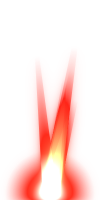
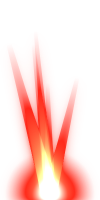
데몰리셔니스트 이펙트 3차: 알파 상향, 히트박스-그림 크기 매칭, 변신 스킬1 연쇄폭발 재설계, 잔존 연기/파편
1. 알파가 낮아 흐릿하던 문제 — 번쩍임 코어/충격파 링/암석 파편/연기/불기둥의 베이킹 알파와
   draw 시 alpha를 전반적으로 올려 핵심 레이어가 또렷하게 보이도록 조정.
2. 판정 반지름에 그림 크기를 맞춤 — tools/demolitionist_gen.js가 굽는 실제 치수를 기준으로
   DMX_FLASH_SCALE(2.5)/DMX_ROCKS_SCALE(3.3)/DMX_CRATER_SCALE(4.9)/DMX_SMOKE_SCALE(2.6)/
   DMX_PILLAR_SCALE(0.9) 배율을 계산해 모든 폭발(평타 60/90, 스킬2 80/100, 궁극기 180)에 공통 적용.
3. 변신 스킬1을 균열형 쐐기 대신, 사다리꼴 범위 안에서 뒤→앞으로 순서대로 터지는 "연쇄 폭발"로
   재설계 (dmx_blast_red + dmx_rocks + dmx_smoke2를 재사용). dmx_shock_red.png는 더 이상 쓰지
   않아 제거.
4. 폭발의 연기·암석 파편이 메인 번쩍임(300~400ms)보다 훨씬 오래(1.2~1.4초) 남아 서서히
   사라지도록 DmxCraterVFX/DmxSmokeVFX/DmxRocksVFX 수명을 늘림 (Vfx.spawn 쪽에서만 처리,
   시뮬레이션 판정 수명은 그대로).

판정/데미지/타이밍 등 시뮬레이션 로직 변경 없음 (순수 비주얼 교체).
tools/tests/sync_test.js 4-0 4-1 4-2 4-3 전부 '같음', ERRS [] 확인.

Claude-Session: https://claude.ai/code/session_014Trbsuv1XdHBwRMNJRF5cV

Changed region(s): [[0.09, 0.21, 0.78, 1.0], [0.75, 0.45, 0.78, 0.48]]

diff --git a/tools/demolitionist_gen.js b/tools/demolitionist_gen.js
@@ -8,8 +8,8 @@
 //   dmx_smoke2.png     280x350  위로 치솟는 검은 연기 뭉치 (바닥 기준점: 그림 가운데 아래쪽, x=140,y=325) — 보통
 //   dmx_crater.png     280x280  바닥 크레이터/균열 (가운데=그림 가운데) — 보통
 //   dmx_shock.png      280x150  평소 충격파 글로우 (흰 빛, 뒤쪽 기준점 x=20,y=75) — 색 입혀 'lighter'
-//   dmx_shock_red.png  280x150  변신 스킬1 균열형 충격파 (멀티컬러 빨강, 뒤쪽 기준점 x=20,y=75) — 'lighter'
 //   dmx_pillar.png     100x200  변신 스킬2 착탄 불기둥 (바닥 기준점: 그림 가운데 아래쪽, x=50,y=195) — 'lighter'
+//   변신 스킬1은 전용 그림 없이 dmx_blast_red/dmx_rocks/dmx_smoke2를 연쇄 폭발처럼 겹쳐 그린다 (demolitionist.js)
 //   dmx_dust.png       150x150  먼지바람 (옅은 회갈색, 가운데=그림 가운데, 밀림/후딜 궤적용) — 보통
 //   preview_dmx.png (확인용)
 // 실행: node tools/demolitionist_gen.js <저장할 폴더>  (Playwright 필요)
@@ -60,29 +60,30 @@ const OUT = process.argv[2] || __dirname;
       const cv = mk(560, 560), fx = cv.getContext('2d'); const CX = 280;
       fx.globalCompositeOperation = 'lighter';
       const gCore = fx.createRadialGradient(CX, CX, 0, CX, CX, 150);
-      gCore.addColorStop(0, `rgba(${WHITE},1)`); gCore.addColorStop(0.25, `rgba(${WHITE},0.9)`); gCore.addColorStop(0.55, `rgba(${A},0.55)`); gCore.addColorStop(1, `rgba(${B},0)`);
+      gCore.addColorStop(0, `rgba(${WHITE},1)`); gCore.addColorStop(0.25, `rgba(${WHITE},0.95)`); gCore.addColorStop(0.55, `rgba(${A},0.75)`); gCore.addColorStop(1, `rgba(${B},0)`);
       fx.fillStyle = gCore; fx.beginPath(); fx.arc(CX, CX, 150, 0, Math.PI * 2); fx.fill();
       for (let i = 0; i < 18; i++) {
         const a = R(0, Math.PI * 2), len = R(70, 160), w = R(10, 22);
         fx.save(); fx.translate(CX, CX); fx.rotate(a);
         const g = fx.createLinearGradient(0, 0, len, 0);
         const col = PICK([WHITE, A, B]);
-        g.addColorStop(0, `rgba(${col},0.9)`); g.addColorStop(1, `rgba(${C},0)`);
+        g.addColorStop(0, `rgba(${col},1)`); g.addColorStop(1, `rgba(${C},0)`);
         fx.fillStyle = g;
         fx.beginPath(); fx.moveTo(-w / 2, 0); fx.lineTo(w / 2, 0); fx.lineTo(w * 0.1, len); fx.lineTo(-w * 0.1, len); fx.closePath(); fx.fill();
         fx.restore();
       }
-      fx.globalAlpha = 1; fx.lineWidth = 7; fx.strokeStyle = `rgba(${WHITE},0.95)`;
+      // 충격파 링: 두껍고 진하게 — 블러로 번져도 핵심 테두리가 또렷하게 보이도록
+      fx.globalAlpha = 1; fx.lineWidth = 9; fx.strokeStyle = `rgba(${WHITE},1)`;
       fx.beginPath(); fx.arc(CX, CX, 195, 0, Math.PI * 2); fx.stroke();
-      fx.lineWidth = 4; fx.strokeStyle = `rgba(${C},0.6)`;
+      fx.lineWidth = 6; fx.strokeStyle = `rgba(${C},0.85)`;
       fx.beginPath(); fx.arc(CX, CX, 250, 0, Math.PI * 2); fx.stroke();
       fx.globalAlpha = 1;
       for (let i = 0; i < 50; i++) {
         const a = R(0, Math.PI * 2), d = R(40, 230);
-        fx.fillStyle = `rgba(${PICK([WHITE, A, B, C])},${R(0.3, 1)})`;
+        fx.fillStyle = `rgba(${PICK([WHITE, A, B, C])},${R(0.5, 1)})`;
         fx.beginPath(); fx.arc(CX + Math.cos(a) * d, CX + Math.sin(a) * d, R(1.5, 4), 0, Math.PI * 2); fx.fill();
       }
-      return bakeGlowColor(cv, [[20, 0.75], [8, 0.55], [3, 0.35]]);
+      return bakeGlowColor(cv, [[16, 0.6], [6, 0.45], [2, 0.3]]);
     };
     const WHITE = '255,255,255';
     // 평소: 흰-노랑-주황-빨강 (fxColor 주황 계열이 주가 되게)
@@ -97,7 +98,7 @@ const OUT = process.argv[2] || __dirname;
       const cx2 = RC + Math.cos(ang) * dist, cy2 = RC + Math.sin(ang) * dist;
       const shade = R(35, 70);
       dx.save(); dx.translate(cx2, cy2); dx.rotate(R(0, Math.PI * 2));
-      dx.fillStyle = `rgba(${shade},${shade - 8},${shade - 12},${R(0.6, 0.95)})`;
+      dx.fillStyle = `rgba(${shade},${shade - 8},${shade - 12},${R(0.8, 1)})`;
       const pts = 5 + Math.floor(R(0, 3));
       dx.beginPath();
       for (let k = 0; k < pts; k++) {
@@ -105,21 +106,21 @@ const OUT = process.argv[2] || __dirname;
         k === 0 ? dx.moveTo(Math.cos(a2) * r2, Math.sin(a2) * r2) : dx.lineTo(Math.cos(a2) * r2, Math.sin(a2) * r2);
       }
       dx.closePath(); dx.fill();
-      dx.strokeStyle = `rgba(${PICK(['255,138,60', '214,60,30'])},0.5)`; dx.lineWidth = 1.2; dx.stroke();
+      dx.strokeStyle = `rgba(${PICK(['255,138,60', '214,60,30'])},0.85)`; dx.lineWidth = 1.5; dx.stroke();
       dx.restore();
-      dx.strokeStyle = `rgba(60,50,45,${R(0.15, 0.35)})`; dx.lineWidth = R(1.5, 3);
+      dx.strokeStyle = `rgba(70,58,50,${R(0.25, 0.5)})`; dx.lineWidth = R(1.5, 3);
       dx.beginPath(); dx.moveTo(RC + Math.cos(ang) * dist * 0.3, RC + Math.sin(ang) * dist * 0.3); dx.lineTo(cx2, cy2); dx.stroke();
     }
-    const rocks = bakeSoft(rocksCv, 2);
+    const rocks = bakeSoft(rocksCv, 1);
 
     // 바닥 크레이터/균열 (어두운 그림자 + 갈라지는 균열) — 보통
     const craterCv = mk(560, 560), gx = craterCv.getContext('2d'); const GC = 280;
     const gcr = gx.createRadialGradient(GC, GC, 0, GC, GC, 230);
-    gcr.addColorStop(0, 'rgba(15,10,9,0.85)'); gcr.addColorStop(0.5, 'rgba(25,18,15,0.5)'); gcr.addColorStop(1, 'rgba(25,18,15,0)');
+    gcr.addColorStop(0, 'rgba(15,10,9,0.95)'); gcr.addColorStop(0.5, 'rgba(25,18,15,0.68)'); gcr.addColorStop(1, 'rgba(25,18,15,0)');
     gx.fillStyle = gcr; gx.beginPath(); gx.arc(GC, GC, 230, 0, Math.PI * 2); gx.fill();
     for (let i = 0; i < 14; i++) {
       const a = (i / 14) * Math.PI * 2 + R(-0.2, 0.2), len = R(120, 320);
-      gx.strokeStyle = `rgba(20,14,12,${R(0.3, 0.55)})`; gx.lineWidth = R(2, 5);
+      gx.strokeStyle = `rgba(20,14,12,${R(0.45, 0.72)})`; gx.lineWidth = R(2, 5);
       gx.beginPath(); gx.moveTo(GC, GC);
       let x = GC, y = GC;
       for (let s = 1; s <= 5; s++) { x += Math.cos(a) * (len / 5) + R(-14, 14); y += Math.sin(a) * (len / 5) + R(-14, 14); gx.lineTo(x, y); }
@@ -135,13 +136,13 @@ const OUT = process.argv[2] || __dirname;
       const cx2 = SMX + R(-120, 120) * (1 - t * 0.3);
       const cy2 = SMY - t * 460 + R(-20, 20);
       const r = R(45, 100) * (0.6 + t * 0.6);
-      puff(cx2, cy2, r, R(0.35, 0.6));
+      puff(cx2, cy2, r, R(0.5, 0.78));
     }
     sx.globalCompositeOperation = 'lighter';
     for (let i = 0; i < 10; i++) {
       const t = R(0, 0.5);
       const cx2 = SMX + R(-150, 150) * (1 - t * 0.3), cy2 = SMY - t * 400 + R(-10, 10);
-      sx.fillStyle = `rgba(${PICK(['255,138,60', '214,60,30'])},${R(0.08, 0.18)})`;
+      sx.fillStyle = `rgba(${PICK(['255,138,60', '214,60,30'])},${R(0.12, 0.25)})`;
       sx.beginPath(); sx.arc(cx2, cy2, R(50, 90), 0, Math.PI * 2); sx.fill();
     }
     sx.globalCompositeOperation = 'source-over';
@@ -159,64 +160,12 @@ const OUT = process.argv[2] || __dirname;
     }
     const g2 = sx2.createRadialGradient(60, SY, 0, 60, SY, 110); g2.addColorStop(0, 'rgba(255,255,255,1)'); g2.addColorStop(1, 'rgba(255,255,255,0)');
     sx2.fillStyle = g2; sx2.beginPath(); sx2.arc(60, SY, 110, 0, Math.PI * 2); sx2.fill();
-    sx2.globalAlpha = 0.5;
-    const g3 = sx2.createLinearGradient(40, SY, 480, SY); g3.addColorStop(0, 'rgba(255,255,255,0.6)'); g3.addColorStop(1, 'rgba(255,255,255,0)');
+    sx2.globalAlpha = 0.68;
+    const g3 = sx2.createLinearGradient(40, SY, 480, SY); g3.addColorStop(0, 'rgba(255,255,255,0.75)'); g3.addColorStop(1, 'rgba(255,255,255,0)');
     sx2.fillStyle = g3; sx2.beginPath(); sx2.moveTo(40, SY - 110); sx2.lineTo(480, SY - 170); sx2.lineTo(480, SY + 170); sx2.lineTo(40, SY + 110); sx2.closePath(); sx2.fill();
     sx2.globalAlpha = 1;
-    const shock = bakeGlowColor(sk, [[14, 0.7], [4, 0.5]]);
-
-    // ---------- 충격파 글로우 (변신 스킬1 — 균열형 쐐기, 멀티컬러 빨강) ----------
-    const skr = mk(560, 300), sxr = skr.getContext('2d'); const SYR = 150, SXR = 40;
-    sxr.globalCompositeOperation = 'lighter';
+    const shock = bakeGlowColor(sk, [[14, 0.6], [4, 0.4]]);
     const T_WHITE = WHITE, T_ORANGE = '255,110,50', T_RED = '230,40,25', T_DEEPRED = '170,20,15', T_EMBER = '110,15,10';
-    const gR = sxr.createRadialGradient(SXR, SYR, 0, SXR, SYR, 110);
-    gR.addColorStop(0, `rgba(${T_WHITE},1)`); gR.addColorStop(0.4, `rgba(${T_RED},0.8)`); gR.addColorStop(1, `rgba(${T_DEEPRED},0)`);
-    sxr.fillStyle = gR; sxr.beginPath(); sxr.arc(SXR, SYR, 110, 0, Math.PI * 2); sxr.fill();
-    // 쐐기 가장자리를 톱니처럼 갈라지게
-    const edge = (y0, y1, jagAmt) => {
-      const pts = [[SXR, SYR + y0]]; const N = 7;
-      for (let i = 1; i <= N; i++) {
-        const t = i / N; const x = SXR + t * 480;
-        const baseY = SYR + y0 + (y1 - y0) * t;
-        pts.push([x, baseY + (i % 2 === 0 ? -jagAmt * t : jagAmt * t)]);
-      }
-      return pts;
-    };
-    const top = edge(-80, -165, 16), bot = edge(80, 165, 16).reverse();
-    sxr.globalAlpha = 0.6;
-    const g4 = sxr.createLinearGradient(SXR, SYR, SXR + 480, SYR);
-    g4.addColorStop(0, `rgba(${T_RED},0.75)`); g4.addColorStop(0.55, `rgba(${T_DEEPRED},0.4)`); g4.addColorStop(1, `rgba(${T_EMBER},0)`);
-    sxr.fillStyle = g4; sxr.beginPath();
-    [...top, ...bot].forEach(([x, y], i) => i === 0 ? sxr.moveTo(x, y) : sxr.lineTo(x, y));
-    sxr.closePath(); sxr.fill();
-    sxr.globalAlpha = 1;
-    for (let i = 0; i < 9; i++) {
-      const t = i / 8, ang = (t - 0.5) * 0.95;
-      const col = PICK([T_WHITE, T_RED, T_ORANGE]);
-      sxr.save(); sxr.translate(SXR, SYR); sxr.rotate(ang);
-      let x = 0, y = 0; sxr.beginPath(); sxr.moveTo(0, 0);
-      const len = R(350, 450), steps = 6;
-      for (let s = 1; s <= steps; s++) { x += len / steps; y += R(-16, 16); sxr.lineTo(x, y); }
-      const g = sxr.createLinearGradient(0, 0, len, 0);
-      g.addColorStop(0, `rgba(${col},0.05)`); g.addColorStop(0.5, `rgba(${col},0.55)`); g.addColorStop(1, `rgba(${T_DEEPRED},0)`);
-      sxr.strokeStyle = g; sxr.lineWidth = R(2, 5); sxr.stroke(); sxr.restore();
-    }
-    for (let i = 0; i < 14; i++) {
-      const ang = R(-0.45, 0.45), dist = R(140, 460);
-      const cx = SXR + Math.cos(ang) * dist, cy = SYR + Math.sin(ang) * dist;
-      const col = PICK([T_ORANGE, T_RED, T_DEEPRED]);
-      sxr.save(); sxr.translate(cx, cy); sxr.rotate(R(0, Math.PI * 2));
-      sxr.fillStyle = `rgba(${col},${R(0.35, 0.8)})`;
-      const s = R(4, 10);
-      sxr.beginPath(); sxr.moveTo(0, -s); sxr.lineTo(s * 0.9, s * 0.7); sxr.lineTo(-s * 0.7, s); sxr.closePath(); sxr.fill();
-      sxr.restore();
-    }
-    for (let i = 0; i < 35; i++) {
-      const ang = R(-0.5, 0.5), dist = R(40, 430);
-      sxr.fillStyle = `rgba(${PICK([T_ORANGE, T_RED])},${R(0.3, 0.9)})`;
-      sxr.beginPath(); sxr.arc(SXR + Math.cos(ang) * dist, SYR + Math.sin(ang) * dist * 0.9, R(1.5, 4), 0, Math.PI * 2); sxr.fill();
-    }
-    const shockRed = bakeGlowColor(skr, [[14, 0.7], [4, 0.5]]);
 
     // ---------- 변신 스킬2 착탄 불기둥 (바닥 기준점: 가운데 아래) ----------
     const pil = mk(200, 400), px2 = pil.getContext('2d'); const PX = 100, PY = 390;
@@ -227,16 +176,16 @@ const OUT = process.argv[2] || __dirname;
       const col = PICK([T_WHITE, T_RED, T_ORANGE]);
       px2.save(); px2.rotate(ang);
       const g = px2.createLinearGradient(0, 0, 0, -h);
-      g.addColorStop(0, `rgba(${col},0.95)`); g.addColorStop(0.3, `rgba(${T_RED},0.7)`); g.addColorStop(1, `rgba(${T_DEEPRED},0)`);
+      g.addColorStop(0, `rgba(${col},1)`); g.addColorStop(0.3, `rgba(${T_RED},0.88)`); g.addColorStop(1, `rgba(${T_DEEPRED},0)`);
       px2.fillStyle = g;
       px2.beginPath(); px2.moveTo(-w / 2, 0); px2.lineTo(w / 2, 0); px2.lineTo(w * 0.15, -h); px2.lineTo(-w * 0.15, -h); px2.closePath(); px2.fill();
       px2.restore();
     }
     px2.restore();
     const gp = px2.createRadialGradient(PX, PY, 0, PX, PY, 90);
-    gp.addColorStop(0, `rgba(${T_WHITE},1)`); gp.addColorStop(0.4, `rgba(${T_RED},0.7)`); gp.addColorStop(1, `rgba(${T_EMBER},0)`);
+    gp.addColorStop(0, `rgba(${T_WHITE},1)`); gp.addColorStop(0.4, `rgba(${T_RED},0.88)`); gp.addColorStop(1, `rgba(${T_EMBER},0)`);
     px2.fillStyle = gp; px2.beginPath(); px2.arc(PX, PY, 90, 0, Math.PI * 2); px2.fill();
-    const pillar = bakeGlowColor(pil, [[12, 0.7], [4, 0.5]]);
+    const pillar = bakeGlowColor(pil, [[12, 0.6], [4, 0.4]]);
 
     // ---------- 먼지바람 (옅은 회갈색, 보통으로) — 기존 그대로, 밀림/후딜 궤적용 ----------
     const du = mk(300, 300), dc = du.getContext('2d'); const DC = 150;
@@ -260,8 +209,7 @@ const OUT = process.argv[2] || __dirname;
     stamp(blast, 460, 10, 'blast', true);
     stamp(blastRed, 620, 10, 'blast_red', true);
     stamp(tint(shock, '#ff8a3c'), 10, 310, 'shock (tinted)', true);
-    stamp(shockRed, 310, 310, 'shock_red', true);
-    stamp(pillar, 610, 310, 'pillar', true);
+    stamp(pillar, 310, 310, 'pillar', true);
     stamp(dust, 10, 500, 'dust', false);
     // 레이어 합성 샘플 (크레이터→연기→파편→번쩍임)
     pc.fillStyle = '#2a2a30'; pc.fillRect(200, 500, 280, 180);
@@ -276,7 +224,7 @@ const OUT = process.argv[2] || __dirname;
 
     return {
       blast: blast.toDataURL(), blastRed: blastRed.toDataURL(), rocks: rocks.toDataURL(), smoke2: smoke2.toDataURL(),
-      crater: crater.toDataURL(), shock: shock.toDataURL(), shockRed: shockRed.toDataURL(), pillar: pillar.toDataURL(),
+      crater: crater.toDataURL(), shock: shock.toDataURL(), pillar: pillar.toDataURL(),
       dust: dust.toDataURL(), preview: pv.toDataURL(),
     };
   });
@@ -287,7 +235,6 @@ const OUT = process.argv[2] || __dirname;
   save('dmx_smoke2.png', res.smoke2);
   save('dmx_crater.png', res.crater);
   save('dmx_shock.png', res.shock);
-  save('dmx_shock_red.png', res.shockRed);
   save('dmx_pillar.png', res.pillar);
   save('dmx_dust.png', res.dust);
   save('preview_dmx.png', res.preview);
